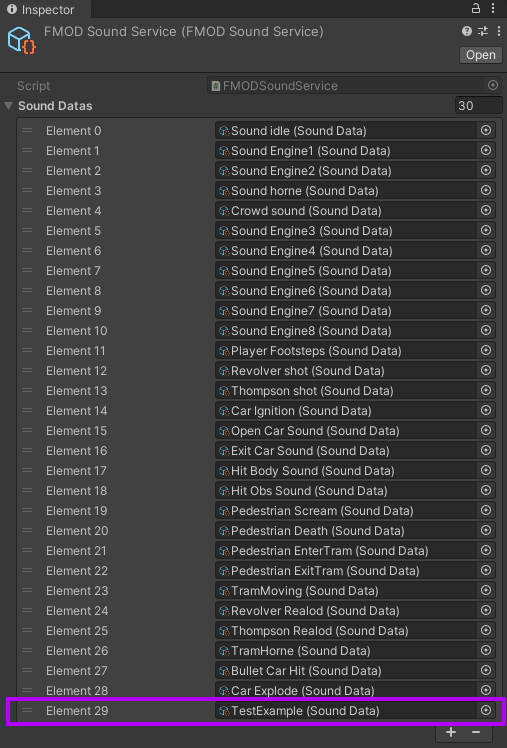
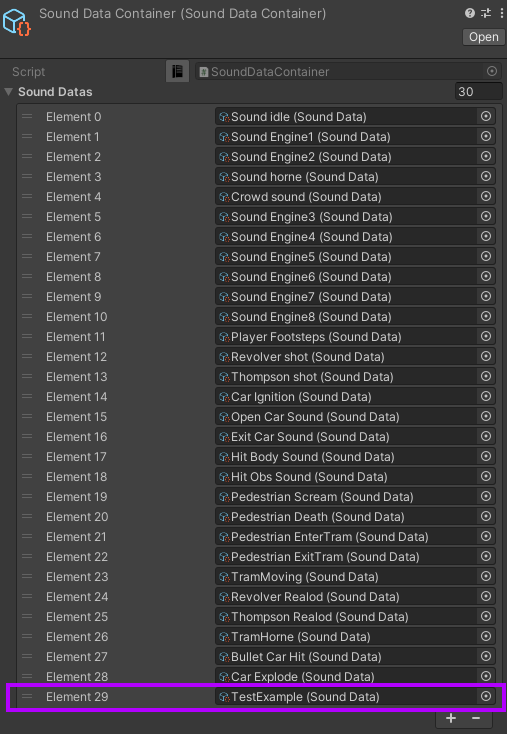
up

diff --git a/docs/source/sound.rst b/docs/source/sound.rst
@@ -4,7 +4,57 @@
 Sound
 ************
 
-`FMOD <https://www.fmod.com/docs/2.02/studio/welcome-to-fmod-studio.html>`_ is used for all sounds in the project.
+Built-in Unity Sound
+============
+
+By default is used for all sounds in the project.
+
+How To Use
+------------
+
+#. Create :ref:`Sound Data <soundData>` in the `Unity` project.
+
+	.. image:: /images/sound/SoundDataCreation.png
+	
+#. Assign your desired `AudioClip <https://docs.unity3d.com/ScriptReference/AudioClip.html>`_.
+
+	.. image:: /images/sound/SoundDataBuiltin.png
+	
+	.. note:: Sound ID is created automatically.
+	
+#. Press `Add To Container` button to add sound to the :ref:`Sound container <soundContainer>`.	
+
+	.. image:: /images/sound/FMOD-SoundServiceAddedExample.png
+	
+#. Now, we can trigger the sound using the code examples below.	
+
+Code Examples
+------------
+
+MonoBehaviour
+~~~~~~~~~~~~
+
+..  code-block:: r
+
+    public class ExampleSoundBehaviour : MonoBehaviour
+    {
+        [SerializeField] private SoundData exampleSoundData;
+		
+		private void PlaySound()
+		{
+			SoundManager.Instance.PlayOneShot(exampleSoundData, transform.position);
+		}
+	}
+	
+Jobs
+~~~~~~~~~~~~
+
+If you want to create sound in Job, :ref:`read here <soundCodeExample>`.
+
+FMOD
+============
+
+`FMOD <https://www.fmod.com/docs/2.02/studio/welcome-to-fmod-studio.html>`_ is used for all sounds in the project (if `FMOD` installed).
 
 Installation
 ------------
@@ -75,18 +125,21 @@ How To Use
 	
 	.. note:: Sound ID is created automatically.
 	
-#. Press `Add To Service` button to add sound to the :ref:`FMOD sound service <fmodSoundService>`.	
+#. Press `Add To Container` button to add sound to the :ref:`Sound container <soundContainer>`.	
 
 	.. image:: /images/sound/FMOD-SoundServiceAddedExample.png
 	
 #. Now, we can trigger the sound from the :ref:`code <soundCodeExample>`.	
+
+Data
+============
 
 .. _soundData:
 
 Sound Data
 ------------
 
-Contains data about the `FMOD` sound.
+Contains data about the sound.
 
 How To Create
 ~~~~~~~~~~~~
@@ -100,15 +153,29 @@ Select from the project context menu:
 Settings
 ~~~~~~~~~~~~
 
+Built-in
+""""""""""""""
+
+	.. image:: /images/sound/SoundDataBuiltin.png
+	
+| **Id** : immutable ID, by which sounds are triggered in `DOTS traffic city` (ID is created automatically).
+| **Loop** : on/off sound looping.
+| **Clip volume** : volume of the audio clip.
+| **Random sound** : on/off random sound.
+| **Audio clip** : reference to `AudioClip <https://docs.unity3d.com/ScriptReference/AudioClip.html>`_ .
+
+FMOD
+""""""""""""""
+
 	.. image:: /images/sound/SoundDataExample.png
 	
 | **Id** : immutable ID, by which sounds are triggered in `DOTS traffic city` (ID is created automatically).
 | **Name** : `event name <https://www.fmod.com/docs/2.02/studio/glossary.html#event>`_  of the sound.
 | **Parameters** : event `parameters <https://www.fmod.com/docs/2.02/studio/glossary.html#parameter>`_ .
 
-.. _fmodSoundService:
+.. _soundContainer:
 
-FMOD Sound Service
+Sound Data Container
 ------------
 
 Contains data on all :ref:`sounds <soundData>` in the `Unity` project.
@@ -120,12 +187,12 @@ Contains data on all :ref:`sounds <soundData>` in the `Unity` project.
 .. _soundCodeExample:
 
 Code Examples
-------------
+============
 
 .. _soundType:
 
 Sound Types
-~~~~~~~~~~~~
+------------
 
 * **Default** : default sound entity.
 * **One Shot** : entity played once & destroyed afterwards.
@@ -136,10 +203,10 @@ Sound Types
 .. _soundCodeHowToCreate:
 
 How To Create
-~~~~~~~~~~~~
+------------
 
 EntityManager methods
-""""""""""""""
+~~~~~~~~~~~~
 
 ..  code-block:: r
 
@@ -157,7 +224,7 @@ EntityManager methods
 	// Creation of a sound entity that will be a child of a given entity.
 	
 CommandBuffer methods
-""""""""""""""
+~~~~~~~~~~~~
 
 Burst compatible methods.
 
@@ -174,15 +241,39 @@ Burst compatible methods.
 .. _soundPrefabExample:
 
 Create prefab query method
-""""""""""""""
+~~~~~~~~~~~~
 	
 ..  code-block:: r
 
 	SoundExtension.GetSoundQuery(EntityManager entityManager, SoundType soundType)
 	// Get `EntityQuery` with the selected `Sound type`.
 	
+Create sound example
+~~~~~~~~~~~~
+
+..  code-block:: r
+
+    public partial class ExampleSoundSystem : SystemBase
+    {
+        private EntityQuery soundPrefabQuery;
+
+        protected override void OnCreate()
+        {
+            soundPrefabQuery = SoundExtension.GetSoundQuery(EntityManager, SoundType.Default);
+        }
+		
+		protected override void OnUpdate()
+        {
+			var commandBuffer = ...
+			var soundPrefabEntity = soundPrefabQuery.GetSingletonEntity();
+			
+			// Pass 'commandBuffer' & 'soundPrefabEntity' into the IJobEntity or Entities.ForEach
+			// commandBuffer.CreateSoundEntity(soundPrefabEntity, soundId, position);
+			// 'soundId' can be taken from 'SoundData'
+		}
+	
 Params
-""""""""""""""
+~~~~~~~~~~~~
             
 * soundId : id of sound taken from :ref:`sound data <soundData>`.
 * soundPrefabEntity : sound :ref:`prefab entity <soundPrefabExample>` taken from :ref:`EntityQuery <soundPrefabExample>`.
@@ -190,7 +281,7 @@ Params
 * volume : volume of the sound (0..1 range).
 	
 How To Play
-~~~~~~~~~~~~
+------------
 
 ..  code-block:: r
 	
@@ -200,7 +291,7 @@ How To Play
 	{
 	
 	// Get world sounds
-	var sounds = GetComponentLookup<FMODSound>(true);
+	var sounds = GetComponentLookup<SoundEventComponent>(false);
 	
 	Entities
 	.WithBurst()
@@ -215,15 +306,15 @@ How To Play
 		// Some sound entity container component 
 		Entity soundEntity = soundHolder.Entity 
 		
-		FMODSound fmodSound = sounds[soundEntity];
+		SoundEventComponent soundEvent = sounds[soundEntity];
 		
 		if (shouldPlay)
 		{
-			fmodSound.Event.start();
+			soundEvent.SetEvent(SoundEventType.Play);
 		}
 		else
 		{
-			fmodSound.Event.stop(FMOD.Studio.STOP_MODE.ALLOWFADEOUT);
+			soundEvent.SetEvent(SoundEventType.StopFadeout);
 		}
 			
 	}).Schedule();
@@ -231,12 +322,12 @@ How To Play
 	}
 	
 How To Destroy
-~~~~~~~~~~~~
+------------
 
-Add the `PooledEventTag` component to the `sound` entity.
+Enable the `PooledEventTag` component in the `sound` entity.
 
 How To Loop
-~~~~~~~~~~~~
+------------
 
 #. Create a :ref:`Sound entity <soundCodeHowToCreate>`.
 #. Add a `LoopSoundData` component (assign a `Duration` value).
